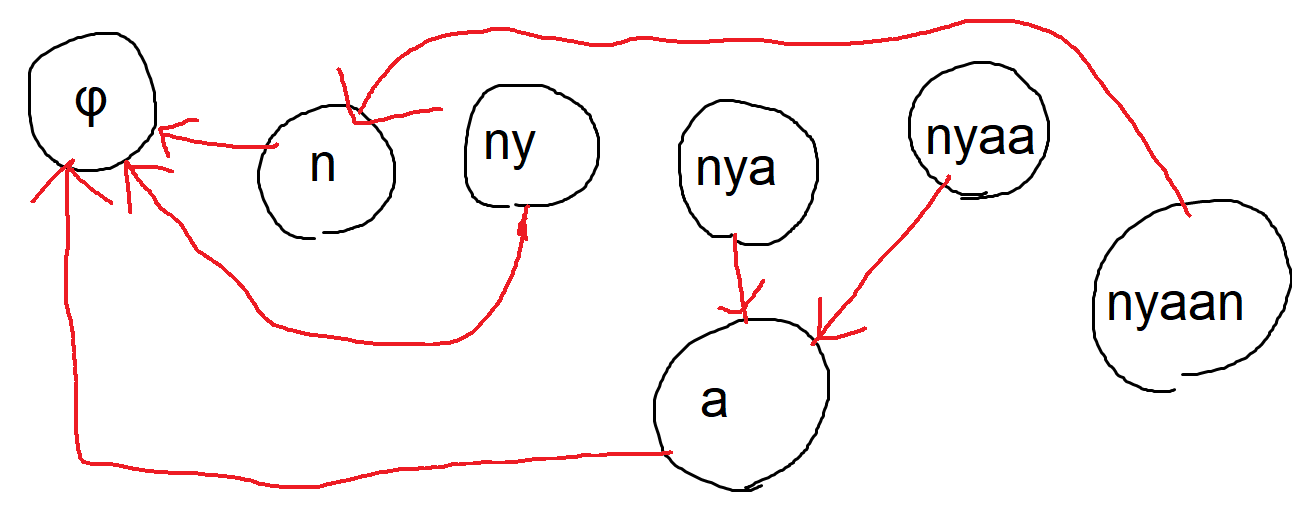
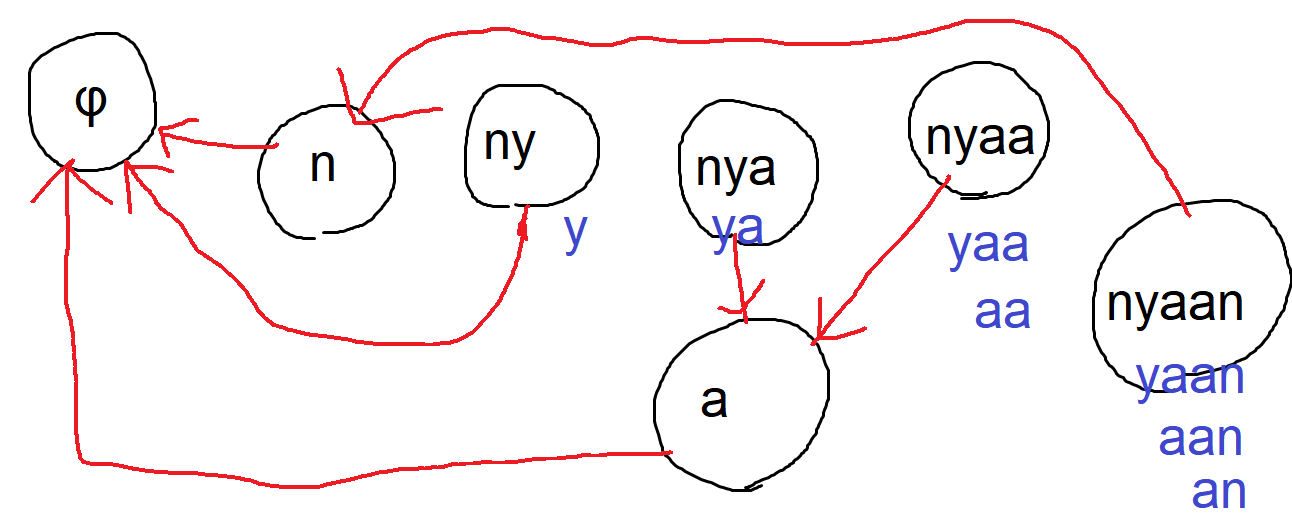
add

diff --git a/verify/verify-unit-test/math.test.cpp b/verify/verify-unit-test/math.test.cpp
@@ -41,7 +41,7 @@ void Nyaan::solve() {
   gray_code_test();
   mod_affine_range_counting_test();
 
-  int a,b;
-  cin>>a>>b;
-  cout<<a+b<<endl;
+  int a, b;
+  cin >> a >> b;
+  cout << a + b << endl;
 }

diff --git a/docs/string/suffix-automaton.md b/docs/string/suffix-automaton.md
@@ -4,37 +4,60 @@
 
 #### 概要
 
-TODO:なにも理解していない　[CP-Algorithms](https://cp-algorithms.com/string/suffix-automaton.html)を読む
+これはなに？
+
+TODO:なにも理解していない　[CP-Algorithms](https://cp-algorithms.com/string/suffix-automaton.html)を全部読む
 
 参考：[uwiさんの記事](https://w.atwiki.jp/uwicoder/pages/2842.html)　[迷路さんの記事](https://pazzle1230.hatenablog.com/entry/2020/04/10/030325)
 
-- 図
+#### 図
 
+文字列$S="\mathrm{nyaan}"$に対応するオートマトンを書いたものが下図
 ![nyaan](https://nyaannyaan.github.io/library/nyaan.png)
 
-###### 図の説明
+##### 図の説明
+
 - Suffix Automaton：文字列のsuffixを受理するオートマトン
+- 頂点：全ての部分列と対応した状態
 - 図の黒線：次の文字の状態への遷移
 - 図の赤線：次の文字の遷移が無かった場合に辿るsuffix link
 - 図のc→cloneされたノード
+- この説明ではなんのこっちゃという感じなので、$\mathrm{endpos}(T)$を定義して詳しく仕組みを見ていく
 
-###### 仕組み
+#### $\mathrm{endpos}$
+
+##### $\mathrm{endpos}$とは？
+
 - 次のように$\mathrm{endpos}$を定義する
   - $\mathrm{Suf}(S)$:=文字列$S$のsuffixの集合
   - $\mathrm{endpos}(T)$:=$T$が$\mathrm{Suf}(S[0 : i])$に含まれる$i$の集合
-- この時$T \in suf(T') \Leftrightarrow \mathrm{endpos}(T) \supset \mathrm{endpos}(T')$
+  - 例:$\mathrm{endpos}(\mathrm{nyaa})=\mathrm{endpos}(\mathrm{aa})=\lbrace 1,3\rbrace$
+- $\mathrm{endpos}(T_1)=\mathrm{endpos}(T_2)$であるとき、$T_1$と$T_2$はendpos-equivalentであると呼ぶ
+- Suffix Automatonの各ノードは、全てのendpos-equivalentな部分文字列の集合を一つのノードに対応させている
+  - 言い換えると、Suffix Automatonのノード数は$\mathrm{endpos}(T)$の種類数+初期状態$t_0$の1つである
+
+##### $\mathrm{endpos}$の性質
+
+- 性質1:部分文字列$u,w(0\lt \mathrm{len}(u) \leq \mathrm{len}(w))$は$u \in \mathrm{Suf}(w)$である場合に限ってendpos-equivalentである。
+- 性質2:部分文字列$u,w(0\lt \mathrm{len}(u) \leq \mathrm{len}(w))$は以下の関係が成り立つ。
+$$\begin{cases}
+\mathrm{endpos}(w) \subseteq \mathrm{endpos}(u) & \mathrm{if}\ u\ \in \mathrm{Suf}(w) \\
+\mathrm{endpos}(w) \cap \mathrm{endpos}(u) = \phi & \mathrm{otherwise}
+\end{cases}$$
+- 性質3:endpos-equivalentな部分文字列の集合について考える。この集合に含まれる全ての部分文字列をnon-increasingな順番に並び替えると$\mathrm{"nyaan","yaan","aan","an"}$のように長さが1ずつ減少する。
+- ここで、**Suffix Link**を次のように貼る。
+  - オートマトンのある状態$v\neq t_0$に含まれる部分文字列のうち最も長いものを$w$とする。この時、$v$に含まれない部分文字列のうち最も長い文字列を$t$とおき、$t$が含まれる状態を$u$として$v$から$u$にSuffix Linkを貼る。
+  - 頂点に含まれる部分文字列とSuffix Linkのみを図に書いたものが下の図である。
 
 ![nyaan](https://nyaannyaan.github.io/library/suffix_link.png)
 
+- 性質4:Suffix Linkは$t_0$を根とした木になる。
+- 性質5:次のルールのみを用いて木を構築したとき、その構造はSuffix Linkによって作られた木と一致する。
+  - $\mathrm{endpos}(T_1) \in \mathrm{endpos}(T_2),T_1 \in u,T_2 \in v$であるとき、かつその時に限り$u$は$v$の子孫である。(ただし$\mathrm{endpos}(\phi)=\lbrace{-1,0,\ldots,\mathrm{len}(S)-1\rbrace}$とおく。)
+
 #### 重要な性質
 
-- 図を見ながら説明する
-  
-
-
 書きかけ　
-
-
 
 - ノード数/辺数は$\mathrm{O}(\lvert S\lvert)$
 
